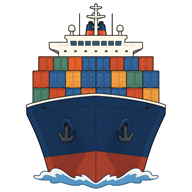
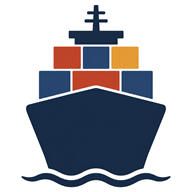
Swap in the flat vessel, and put it on a plate where it vanished
The first illustration carried too much detail to survive a 36px slot. This one
is flat shapes with a bold silhouette and reads cleanly at size. Same pipeline:
cropped to its content bounding box, resized to 192px, background flood-filled
to transparent from the border. 835,837 bytes to 21,194 — 97.5% off, and half
the weight of the previous icon.

Then a collision that only showed up on the dark screen. The hull is
rgb(24,44,70) and the gate ground is rgb(30,58,79): 1.19:1 against each other.
The ship disappeared entirely, leaving three coloured containers floating on a
night sky. It looked fine at full size and fine on the white header, which is
exactly why it needed checking at 36px against the ground it actually ships on.

No accent wash fixes a collision that close, so on dark the slot stops being a
tint and becomes its own ground: a paper plate the ship sits on, reading as a
sticker. That takes the hull to 12.52:1. The wash stays on the light tone,
where the white header already gives it 14:1.

Masters for both attempts now live in Schedules/art/, outside the bundle.

diff --git a/src/components/BrandMark.tsx b/src/components/BrandMark.tsx
@@ -45,9 +45,20 @@ const SIZES = {
   lg: { slot: "h-12 w-12 rounded-[1.15rem]", gap: "gap-3", name: "text-3xl" },
 } as const;
 
+/*
+  THE DARK SLOT IS A LIGHT PLATE, NOT A DARKER WASH, and the artwork forced it.
+
+  The vessel's hull is rgb(24,44,70). The gate ground is rgb(30,58,79). Those measure 1.19:1
+  against each other, so the ship simply vanished and left three coloured containers floating on a
+  night sky. No accent wash at any opacity fixes a collision that close.
+
+  On dark the slot therefore becomes its own ground — a paper plate the ship sits on, which reads
+  as a sticker and takes the hull to 12.52:1. The wash survives on `light`, where the header is
+  white and the hull already clears 14:1.
+*/
 const TONES = {
   light: { wash: "bg-accent/8", name: "text-ink", dot: "text-accent" },
-  dark: { wash: "bg-accent-light/15", name: "text-white", dot: "text-accent-light" },
+  dark: { wash: "bg-panel", name: "text-white", dot: "text-accent-light" },
 } as const;
 
 interface Props {
